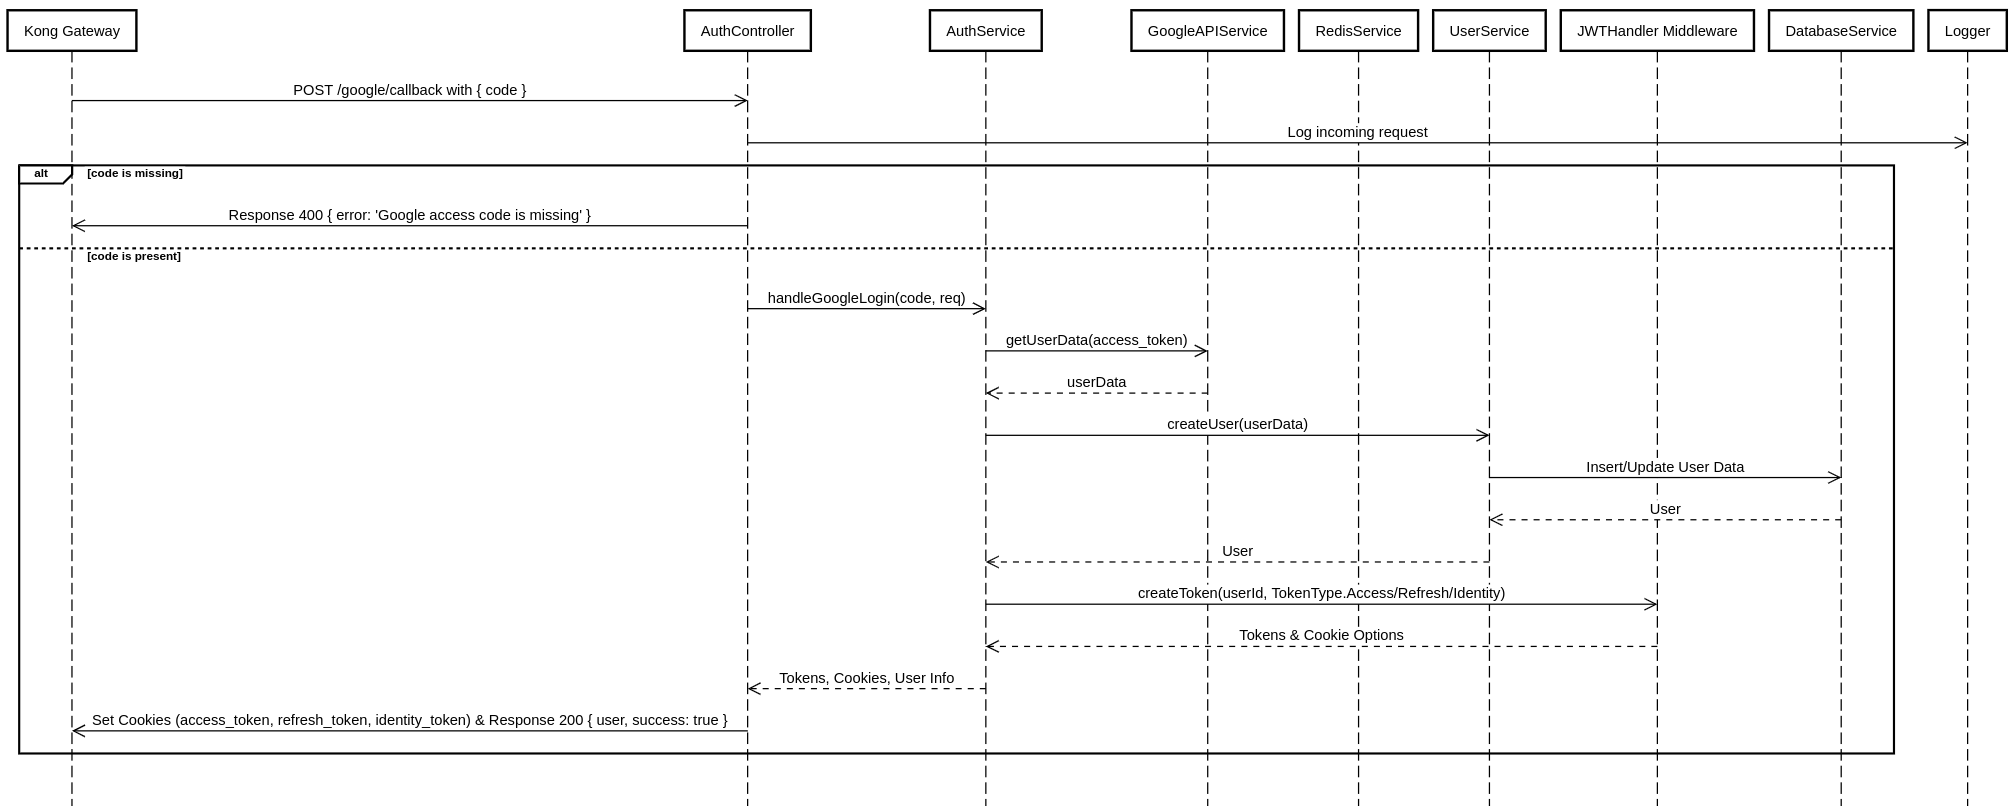
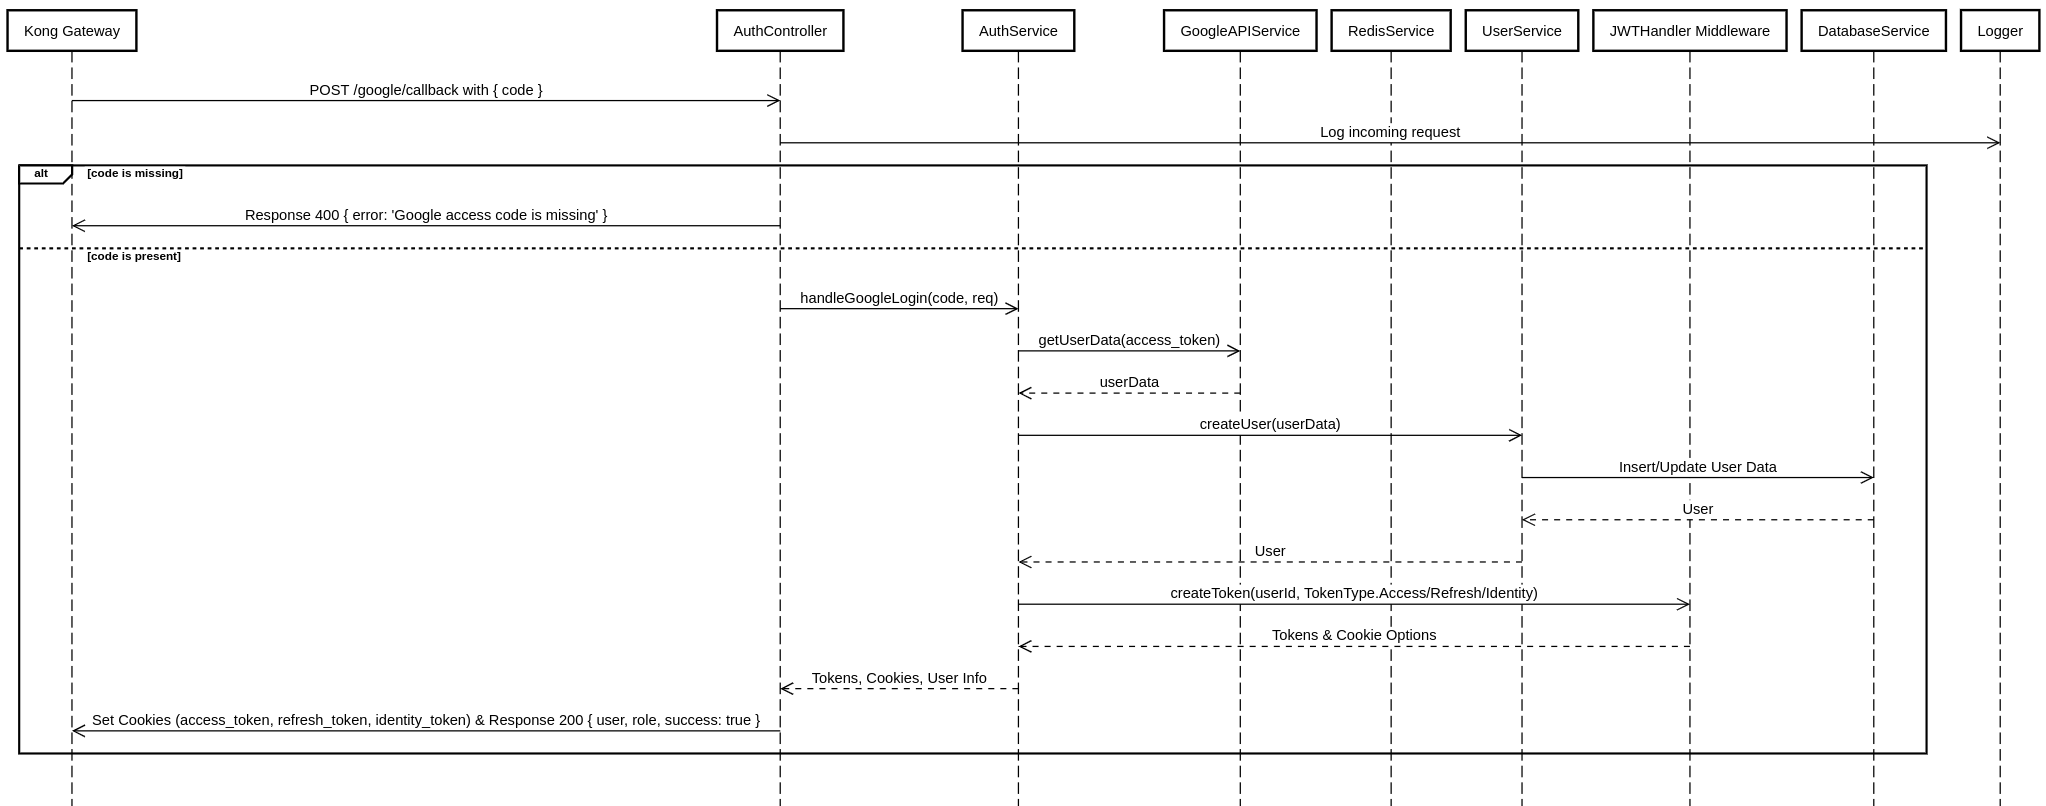
chore(docs): updated sequence diagram and added comments for clarification

diff --git a/client/src/shared/models/Permissions.tsx b/client/src/shared/models/Permissions.tsx
@@ -7,6 +7,12 @@ const applicationPermissions: PermissionsModel = {
   gayneil: ["org.admin", "org.permissions.SERVICENAME.read"],
 
   /*
+   * Use org.admin or org.user when specific permissions are not required
+   * If this feels unnecessary, just use org.permissions for everything else
+   * However, org.admin should have some permissions by default which dont need to be specified
+   */
+
+  /*
    * Below are examples of permissions that can be used in the application
    * settings: ['org.admin', 'org.permissions.settings.manage'],
    * userManagement: ['org.admin', 'org.permissions.user.manage'],

diff --git a/docs/AuthenticationRefreshSequence.md b/docs/AuthenticationRefreshSequence.md
@@ -16,8 +16,8 @@
         AC->>AS: renewAccessToken(refreshToken)
         AS->>JWT: verifyToken(refreshToken)
         JWT-->>AS: Decoded Token
-        alt token is revoked
-            AS->>Kong: Response 401 { error: 'Refresh token failed' }
+        alt token is revoked or invalid
+            AS->>Kong: Response 401 { error: 'Refresh token failed.' }
         else token is valid
             AS->>JWT: createToken(userId, TokenType.Access)
             JWT-->>AS: New Access Token & Cookie Options

diff --git a/docs/AuthenticationGoogleSequence.md b/docs/AuthenticationGoogleSequence.md
@@ -24,5 +24,5 @@
         AS->>JWT: createToken(userId, TokenType.Access/Refresh/Identity)
         JWT-->>AS: Tokens & Cookie Options
         AS-->>AC: Tokens, Cookies, User Info
-        AC->>Kong: Set Cookies (access_token, refresh_token, identity_token) & Response 200 { user, success: true }
+        AC->>Kong: Set Cookies (access_token, refresh_token, identity_token) & Response 200 { user, role, success: true }
     end
